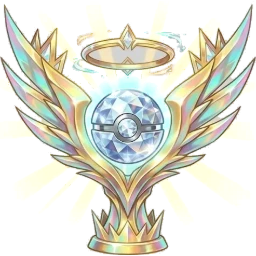
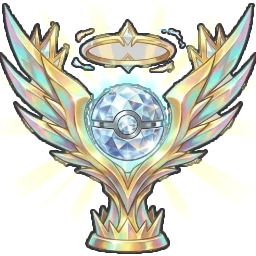
Copas de rango sin bordes blancos y más grandes en las ligas altas
- Recorte limpio: fuera los píxeles claros mezclados con el fondo y contorno oscuro suave alrededor de la copa (no de los rayos ni brillos)
- Fila de ligas de Clasificatoria: cada copa un poco más grande que la anterior (34 a 55 px), alineadas por abajo

diff --git a/public/index.html b/public/index.html
@@ -979,8 +979,8 @@ body.fullField .boardInfo span:not(:empty){background:rgba(8,12,28,.6)}
 .rkBig{display:flex;align-items:center;gap:20px}.rkBig .pxBadge{flex:none;filter:drop-shadow(0 4px 6px rgba(0,0,0,.55)) drop-shadow(0 0 18px rgba(255,210,63,.18))}
 .rkBigTxt{flex:1;display:flex;flex-direction:column;gap:6px}.rkBigTxt h1{margin:0}.rkLp{font-family:var(--pxFont);font-size:20px;font-weight:700;color:var(--pxGold);margin:0}
 .rkBigTxt .rkBar{height:12px}
-.leagues{display:grid;grid-template-columns:repeat(10,1fr);gap:4px;margin:4px 0 16px}
-.lgItem{display:flex;flex-direction:column;align-items:center;gap:2px;font-family:var(--pxFont);font-size:10.5px;color:var(--pxMut);opacity:.55;text-align:center}
+.leagues{display:grid;grid-template-columns:repeat(10,1fr);align-items:end;gap:4px;margin:4px 0 16px}
+.lgItem{display:flex;flex-direction:column;align-items:center;justify-content:flex-end;gap:2px;font-family:var(--pxFont);font-size:10.5px;color:var(--pxMut);opacity:.55;text-align:center}
 .lgItem.on{opacity:1;color:var(--pxGold)}
 /* ---------- resultado, ascenso y revelación ---------- */
 .goChips{display:flex;flex-wrap:wrap;gap:8px;margin:8px 0 12px}

diff --git a/public/game.js b/public/game.js
@@ -3074,7 +3074,7 @@ function showNormal(){
 function startPractice(){ closeModal(); $('menu').classList.add('hidden'); selected=null; selCombat=null; newGame({diff:'normal'}); }
 function leaguesHTML(rk){ const cur=rk.placing?'':rk.league;
  return [['iron','Hierro'],['bronze','Bronce'],['silver','Plata'],['gold','Oro'],['platinum','Platino'],['emerald','Esmeralda'],['diamond','Diamante'],['master','Maestro'],['grandmaster','Gran Maestro'],['challenger','Retador']]
-  .map(([k,n])=>`<div class="lgItem ${k===cur?'on':''}">${window.PX?PX.badge(k,40):''}<span>${n}</span></div>`).join(''); }
+  .map(([k,n],i)=>`<div class="lgItem ${k===cur?'on':''}">${window.PX?PX.badge(k,34+i*2.4|0):''}<span>${n}</span></div>`).join(''); } // cada liga, un poco más grande
 function showRanked(){
  const rk=COMP().ranked;
  openModal(`<div class="rkBig">${rankBadge(rk,128)}<div class="rkBigTxt"><div class="pxKicker">Clasificatoria</div><h1>${esc(rankText(rk))}</h1>${rk.placing?`<p class="muted">Juega ${rk.of-rk.done} partida${rk.of-rk.done===1?'':'s'} más para revelar tu rango.</p>`:`<p class="rkLp">${rk.lp} LP</p>`}${lpBar(rk)}</div></div>
